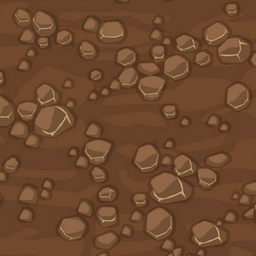
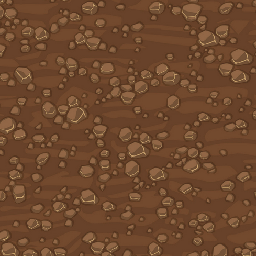
Change TextTile to 128x128 for color

diff --git a/src/lib.rs b/src/lib.rs
@@ -423,10 +423,10 @@ pub fn build_testset(variation: WTileVariation) -> Result<WTileSet, Error> {
             }
         }
 
-        let mut r_img = DynamicImage::new_rgb8(256, 256);
-        let mut g_img = DynamicImage::new_rgb8(256, 256);
-        let mut b_img = DynamicImage::new_rgb8(256, 256);
-        let mut y_img = DynamicImage::new_rgb8(256, 256);
+        let mut r_img = DynamicImage::new_rgb8(128, 128);
+        let mut g_img = DynamicImage::new_rgb8(128, 128);
+        let mut b_img = DynamicImage::new_rgb8(128, 128);
+        let mut y_img = DynamicImage::new_rgb8(128, 128);
 
         fill(&mut r_img, Rgba::from_channels(255, 0, 0, 255));
         fill(&mut g_img, Rgba::from_channels(0, 255, 0, 255));
